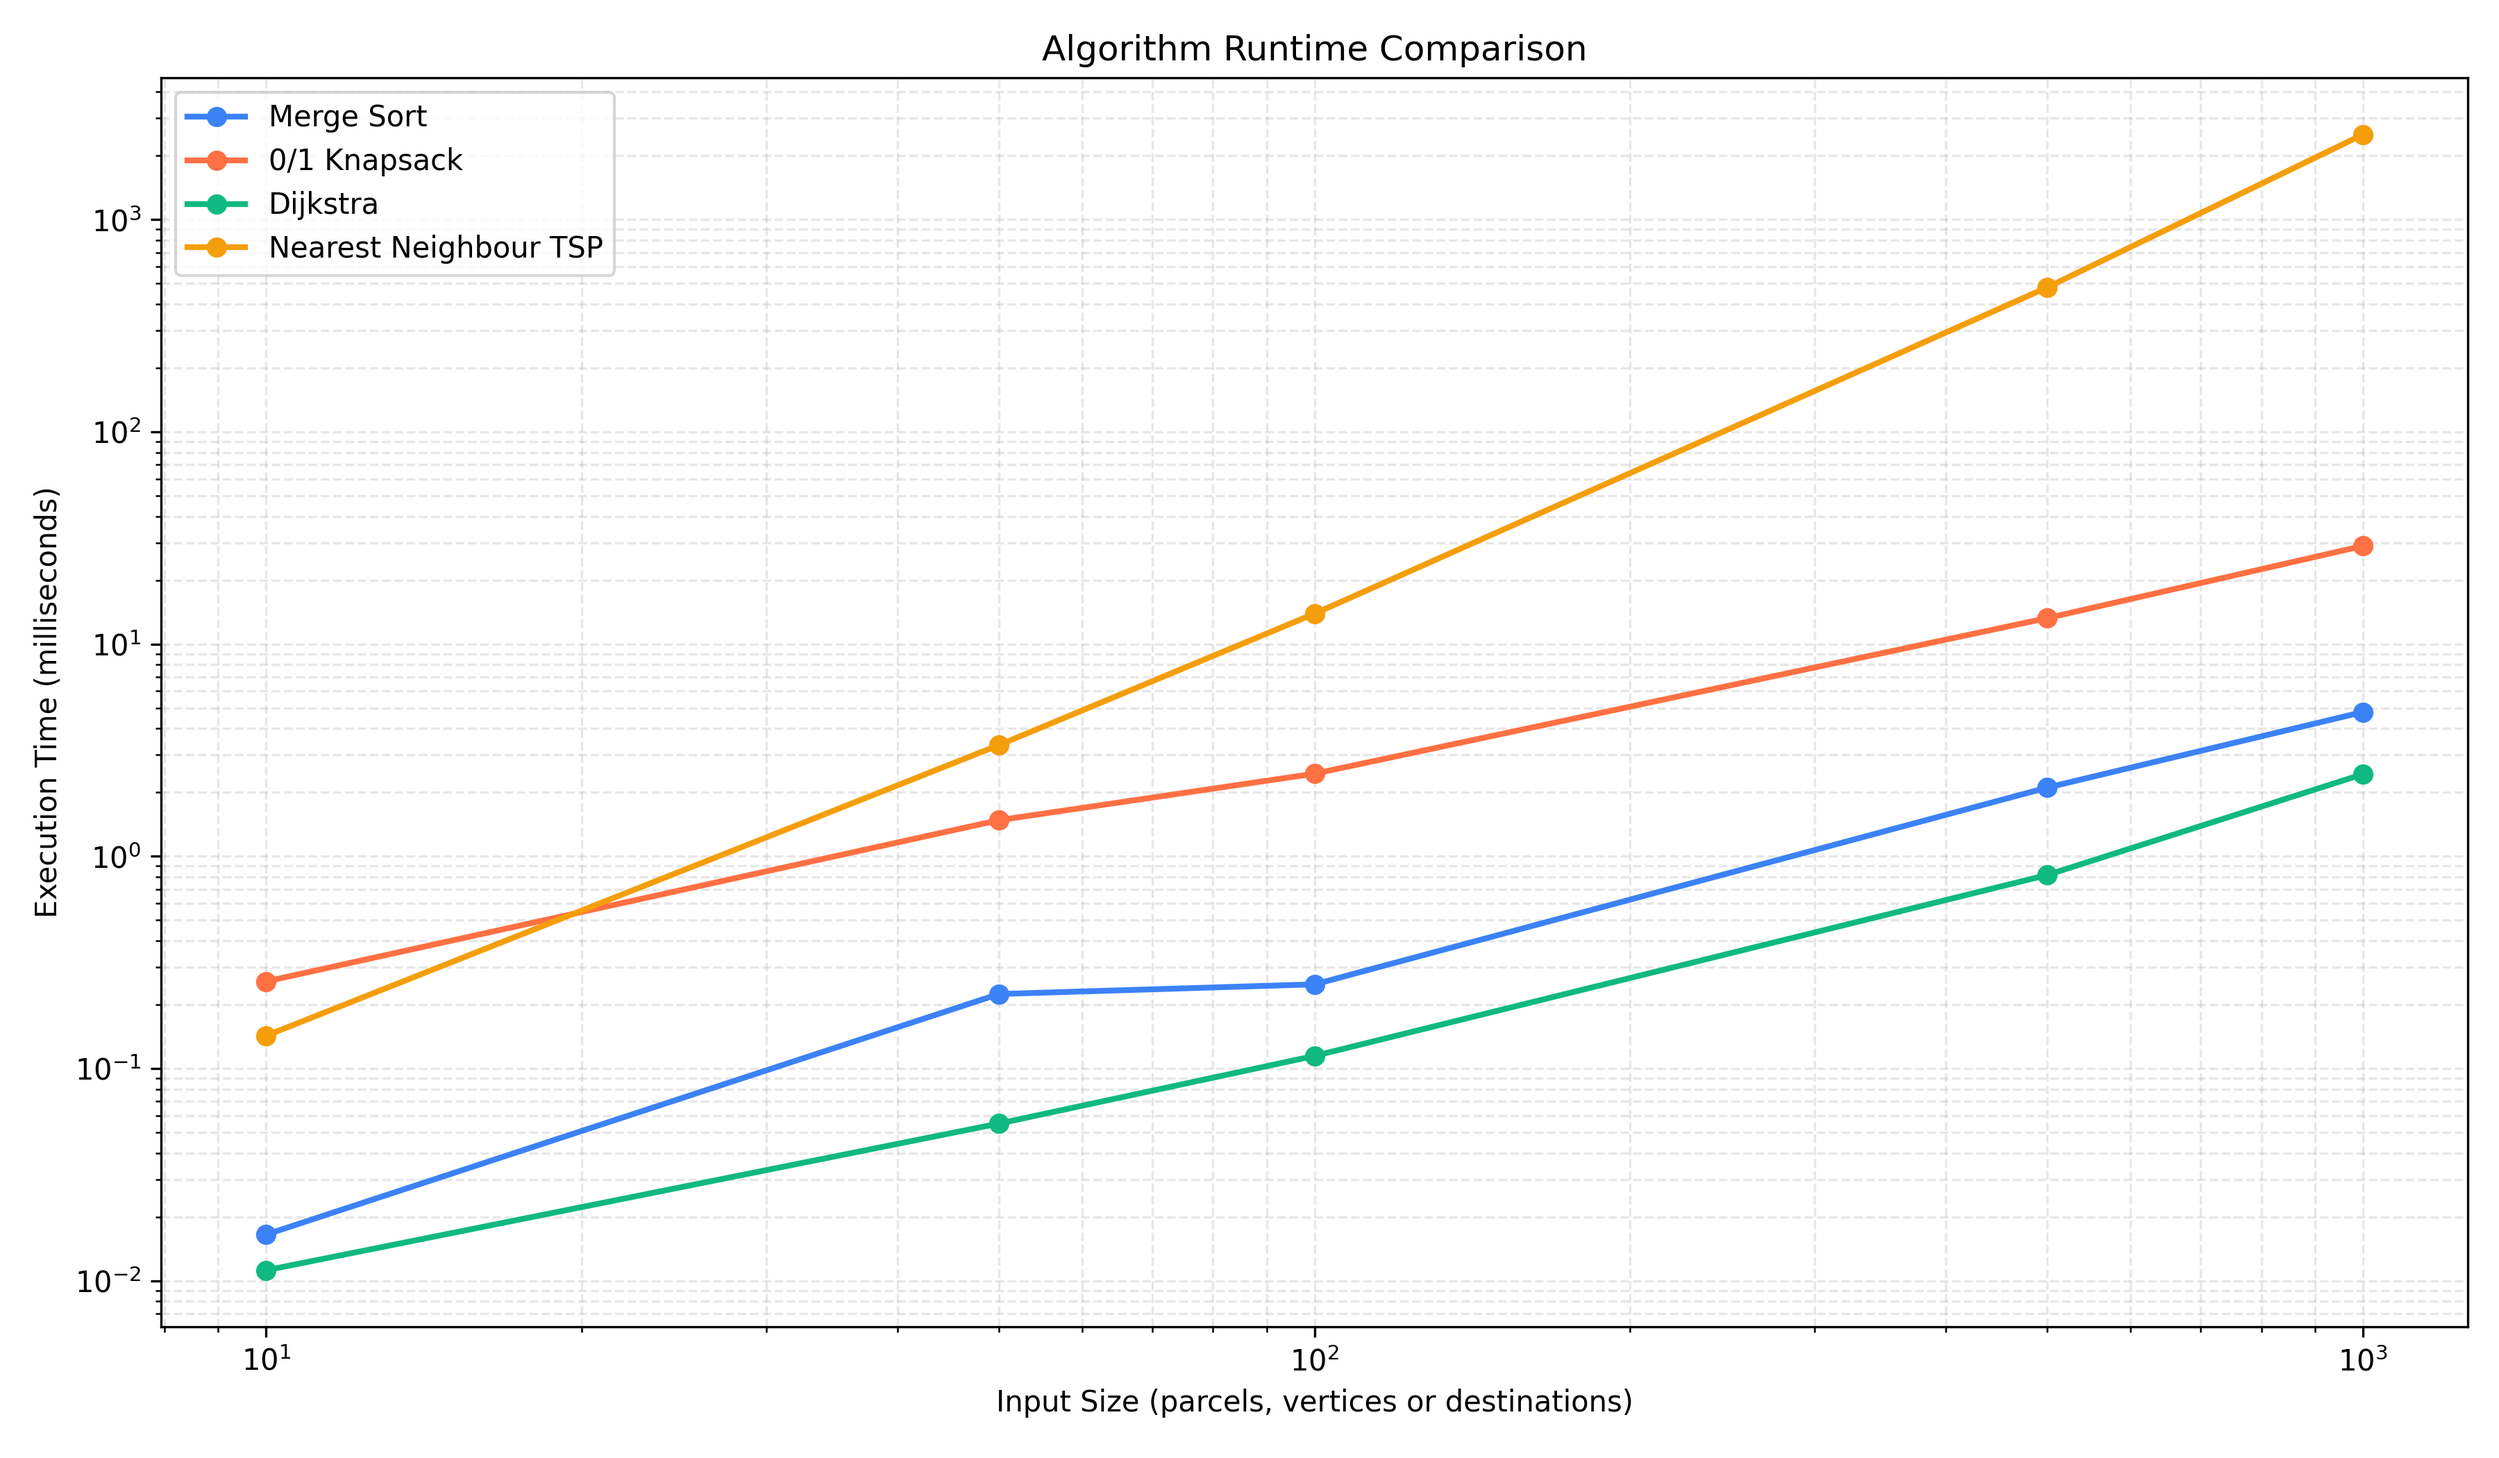
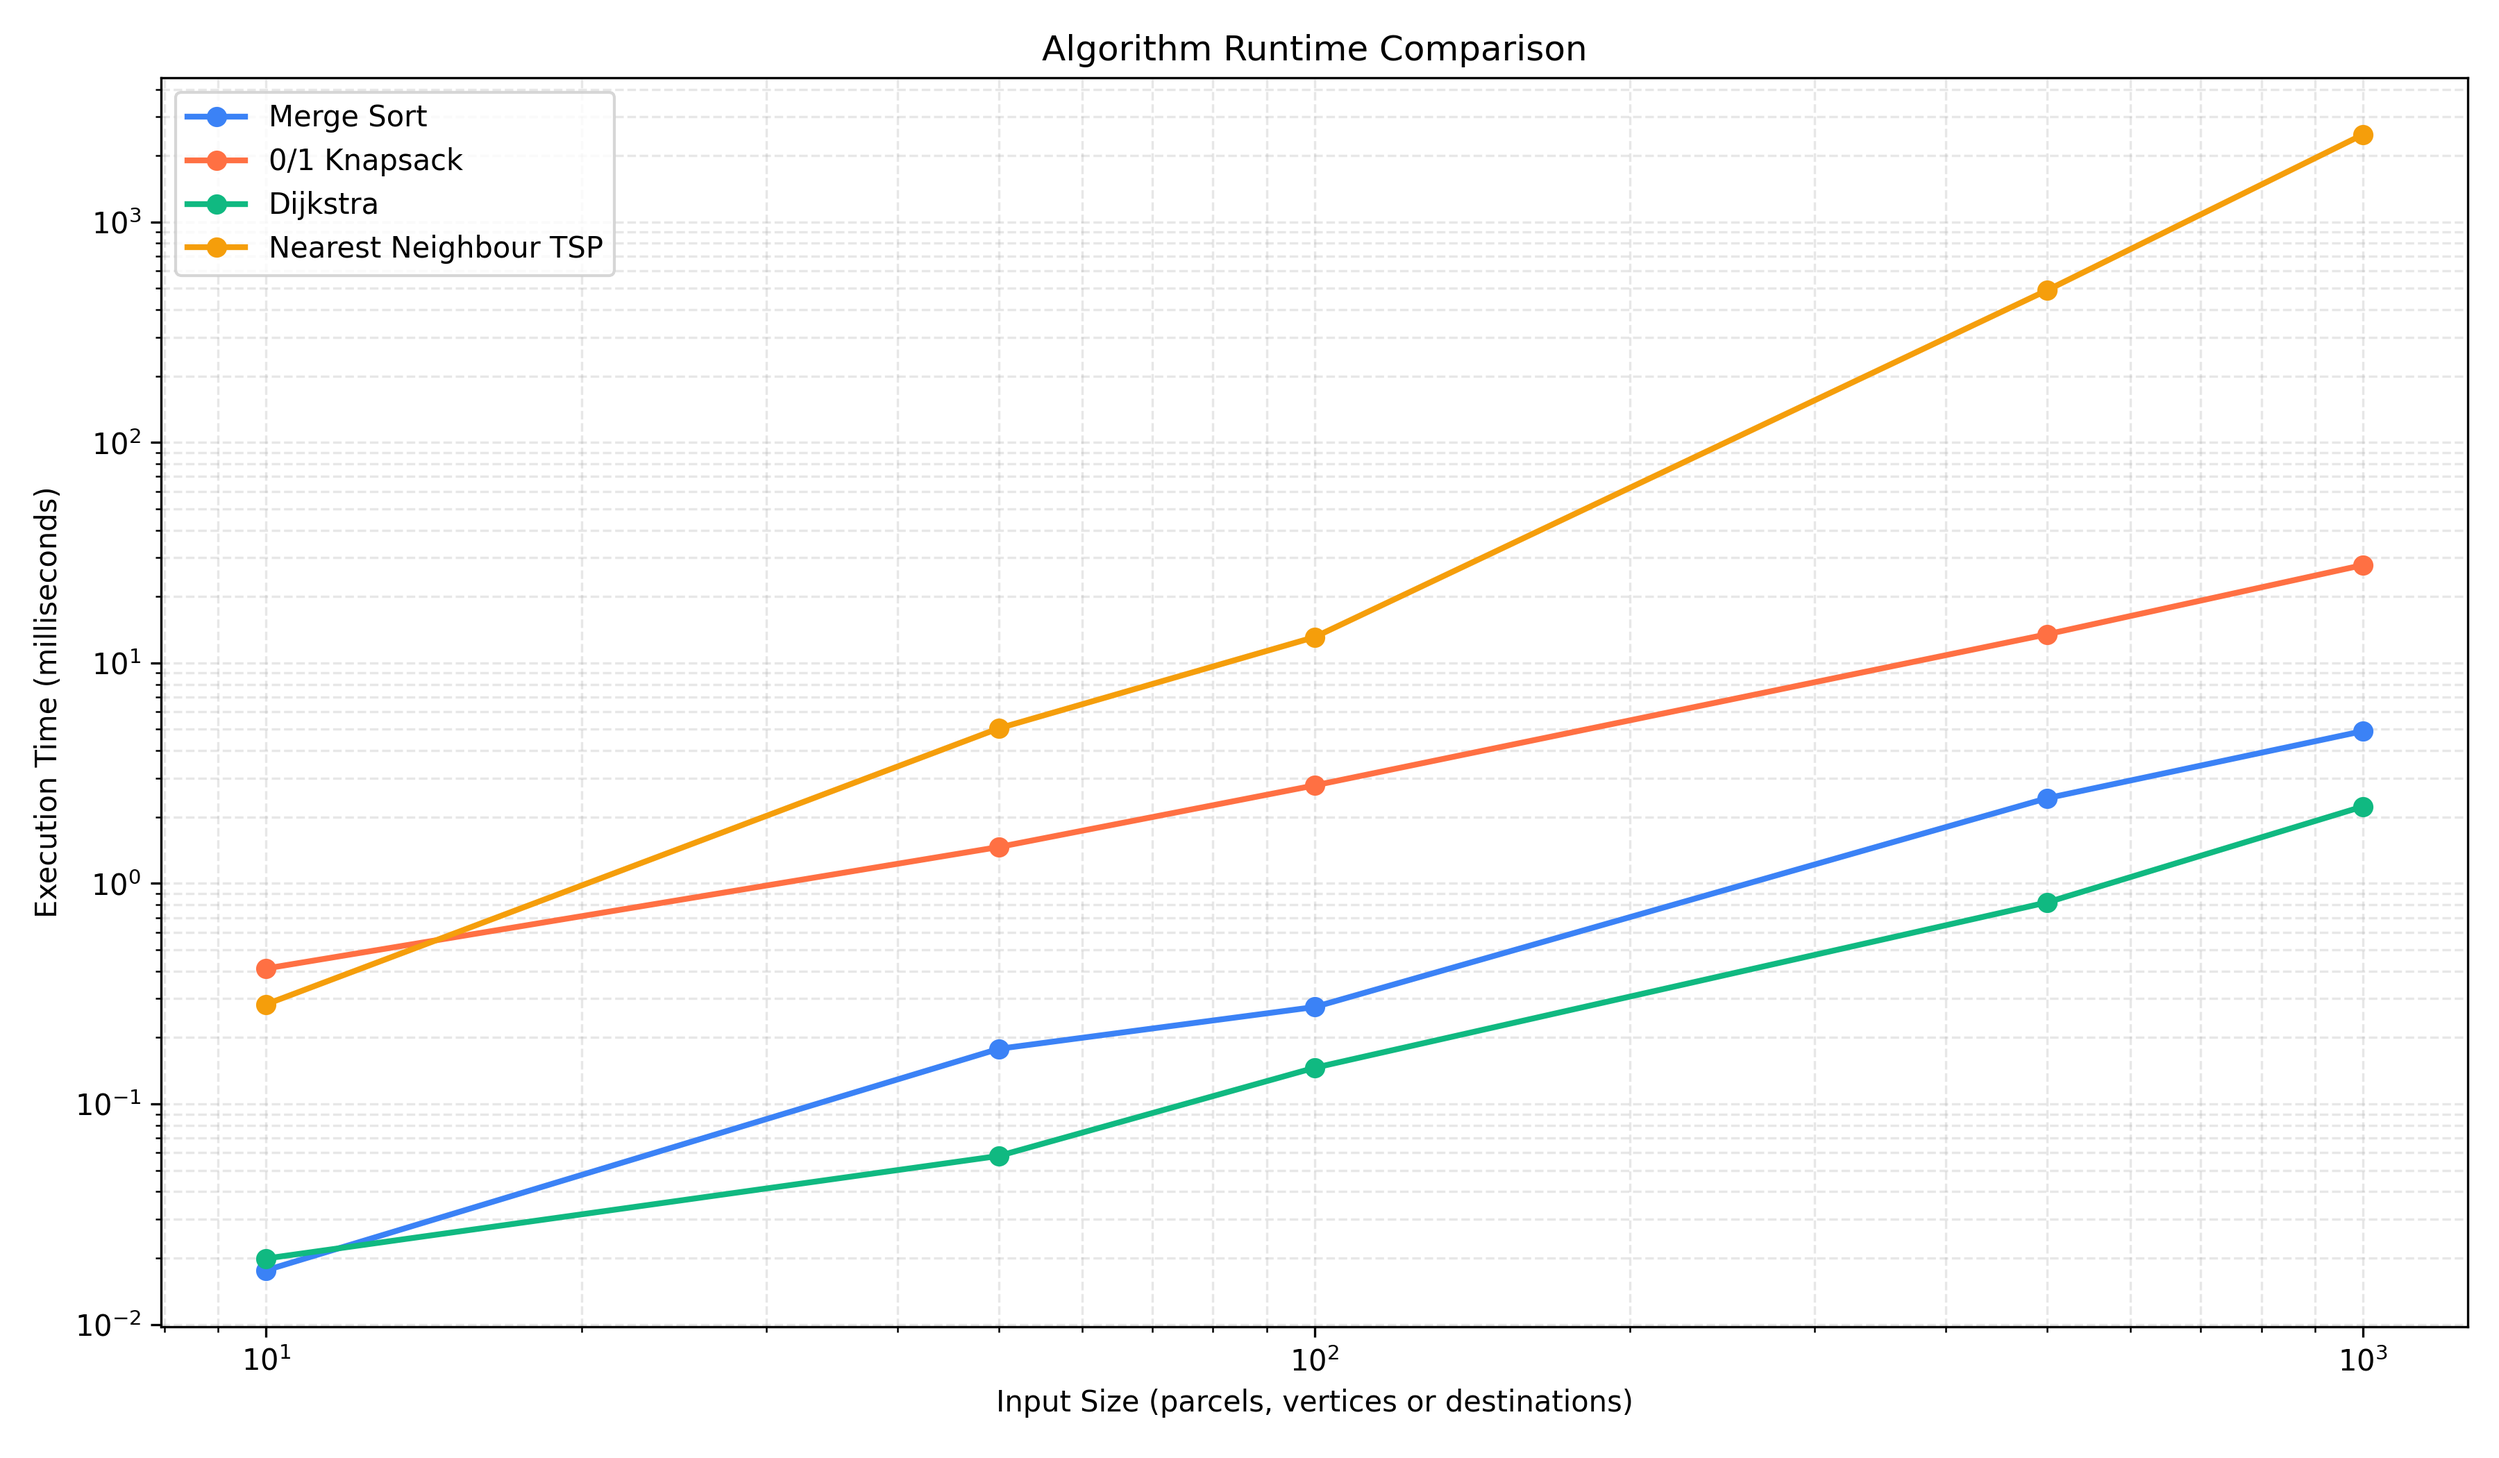
small changes

diff --git a/sorting.py b/sorting.py
@@ -1,7 +1,4 @@
 def merge(parcels, left, mid, right):
-    """
-    Merge two sorted halves based on priority and deadline.
-    """
 
     left_half = parcels[left:mid + 1]
     right_half = parcels[mid + 1:right + 1]
@@ -12,7 +9,6 @@ def merge(parcels, left, mid, right):
 
     while i < len(left_half) and j < len(right_half):
 
-        # Compare priority first, then deadline
         if (left_half[i]["priority"], left_half[i]["deadline"]) <= \
            (right_half[j]["priority"], right_half[j]["deadline"]):
 
@@ -25,13 +21,11 @@ def merge(parcels, left, mid, right):
 
         k += 1
 
-    # Copy remaining elements from left half
     while i < len(left_half):
         parcels[k] = left_half[i]
         i += 1
         k += 1
 
-    # Copy remaining elements from right half
     while j < len(right_half):
         parcels[k] = right_half[j]
         j += 1
@@ -39,26 +33,18 @@ def merge(parcels, left, mid, right):
 
 
 def merge_sort(parcels, left, right):
-    """
-    Recursively sort parcels using Merge Sort.
-    """
 
     if left < right:
 
         mid = (left + right) // 2
 
-        # Divide the array into two halves
         merge_sort(parcels, left, mid)
         merge_sort(parcels, mid + 1, right)
 
-        # Merge the sorted halves
         merge(parcels, left, mid, right)
 
 
 def sort_parcels(parcels):
-    """
-    Sort parcels by priority and delivery deadline.
-    """
 
     if len(parcels) > 1:
         merge_sort(parcels, 0, len(parcels) - 1)

diff --git a/route_planner.py b/route_planner.py
@@ -1,11 +1,5 @@
 from graph import dijkstra, reconstruct_path
 def nearest_neighbour(graph, start, destinations):
-    """
-    Generate an approximate TSP route using Nearest Neighbour.
-
-    Start from the warehouse, visit every selected destination,
-    and return to the warehouse.
-    """
     unvisited = list(dict.fromkeys(
     node for node in destinations if node != start
 ))

diff --git a/knapsack.py b/knapsack.py
@@ -1,9 +1,4 @@
 def knapsack(parcels, capacity):
-    """
-    Solve the 0/1 Knapsack Problem using Dynamic Programming.
-    Select parcels to maximize total value within weight capacity.
-    """
-
     n = len(parcels)
 
     dp = [[0 for _ in range(capacity + 1)]
